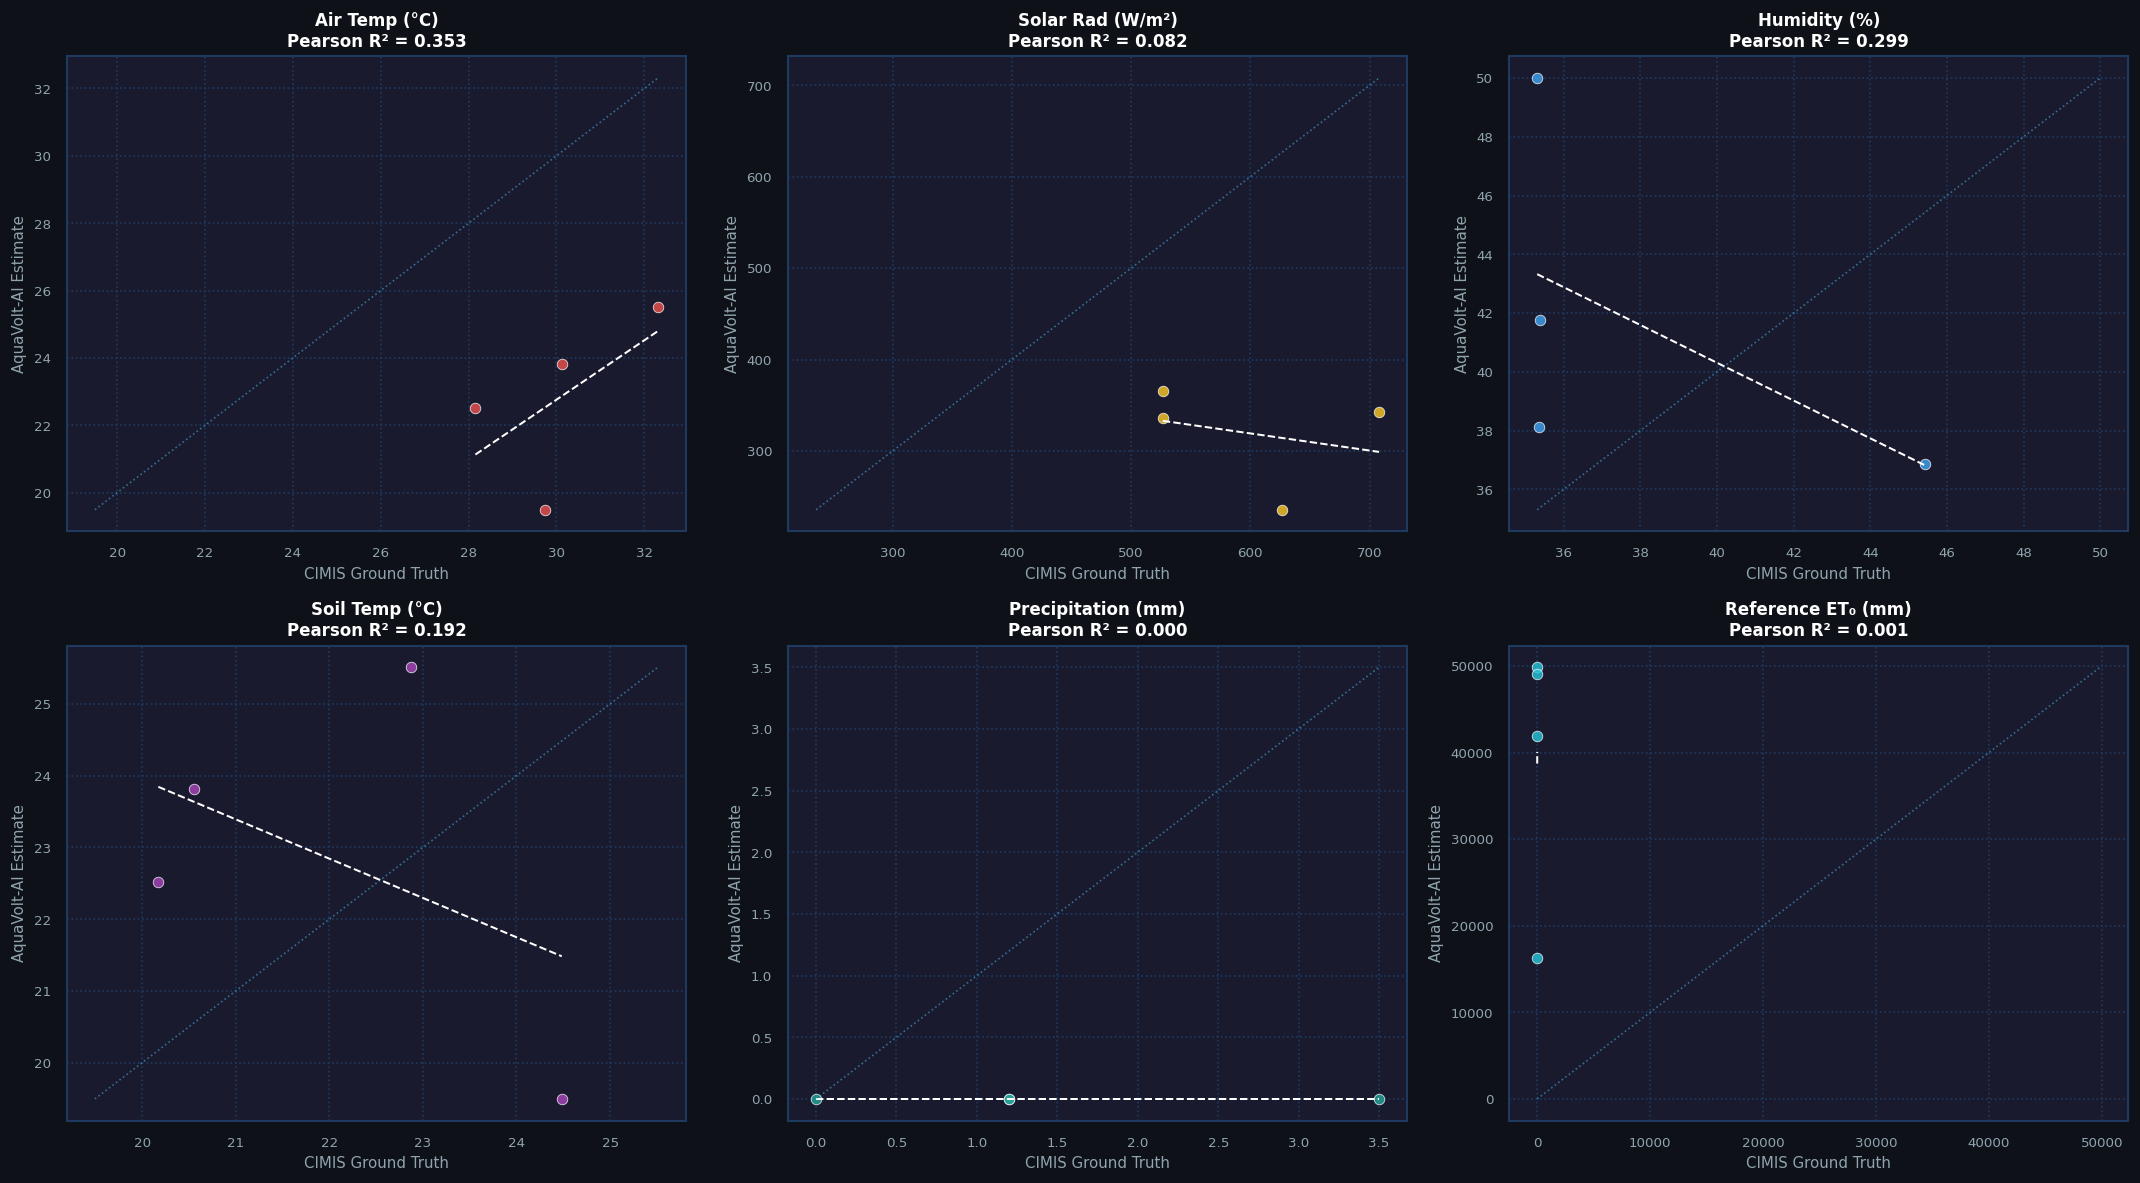
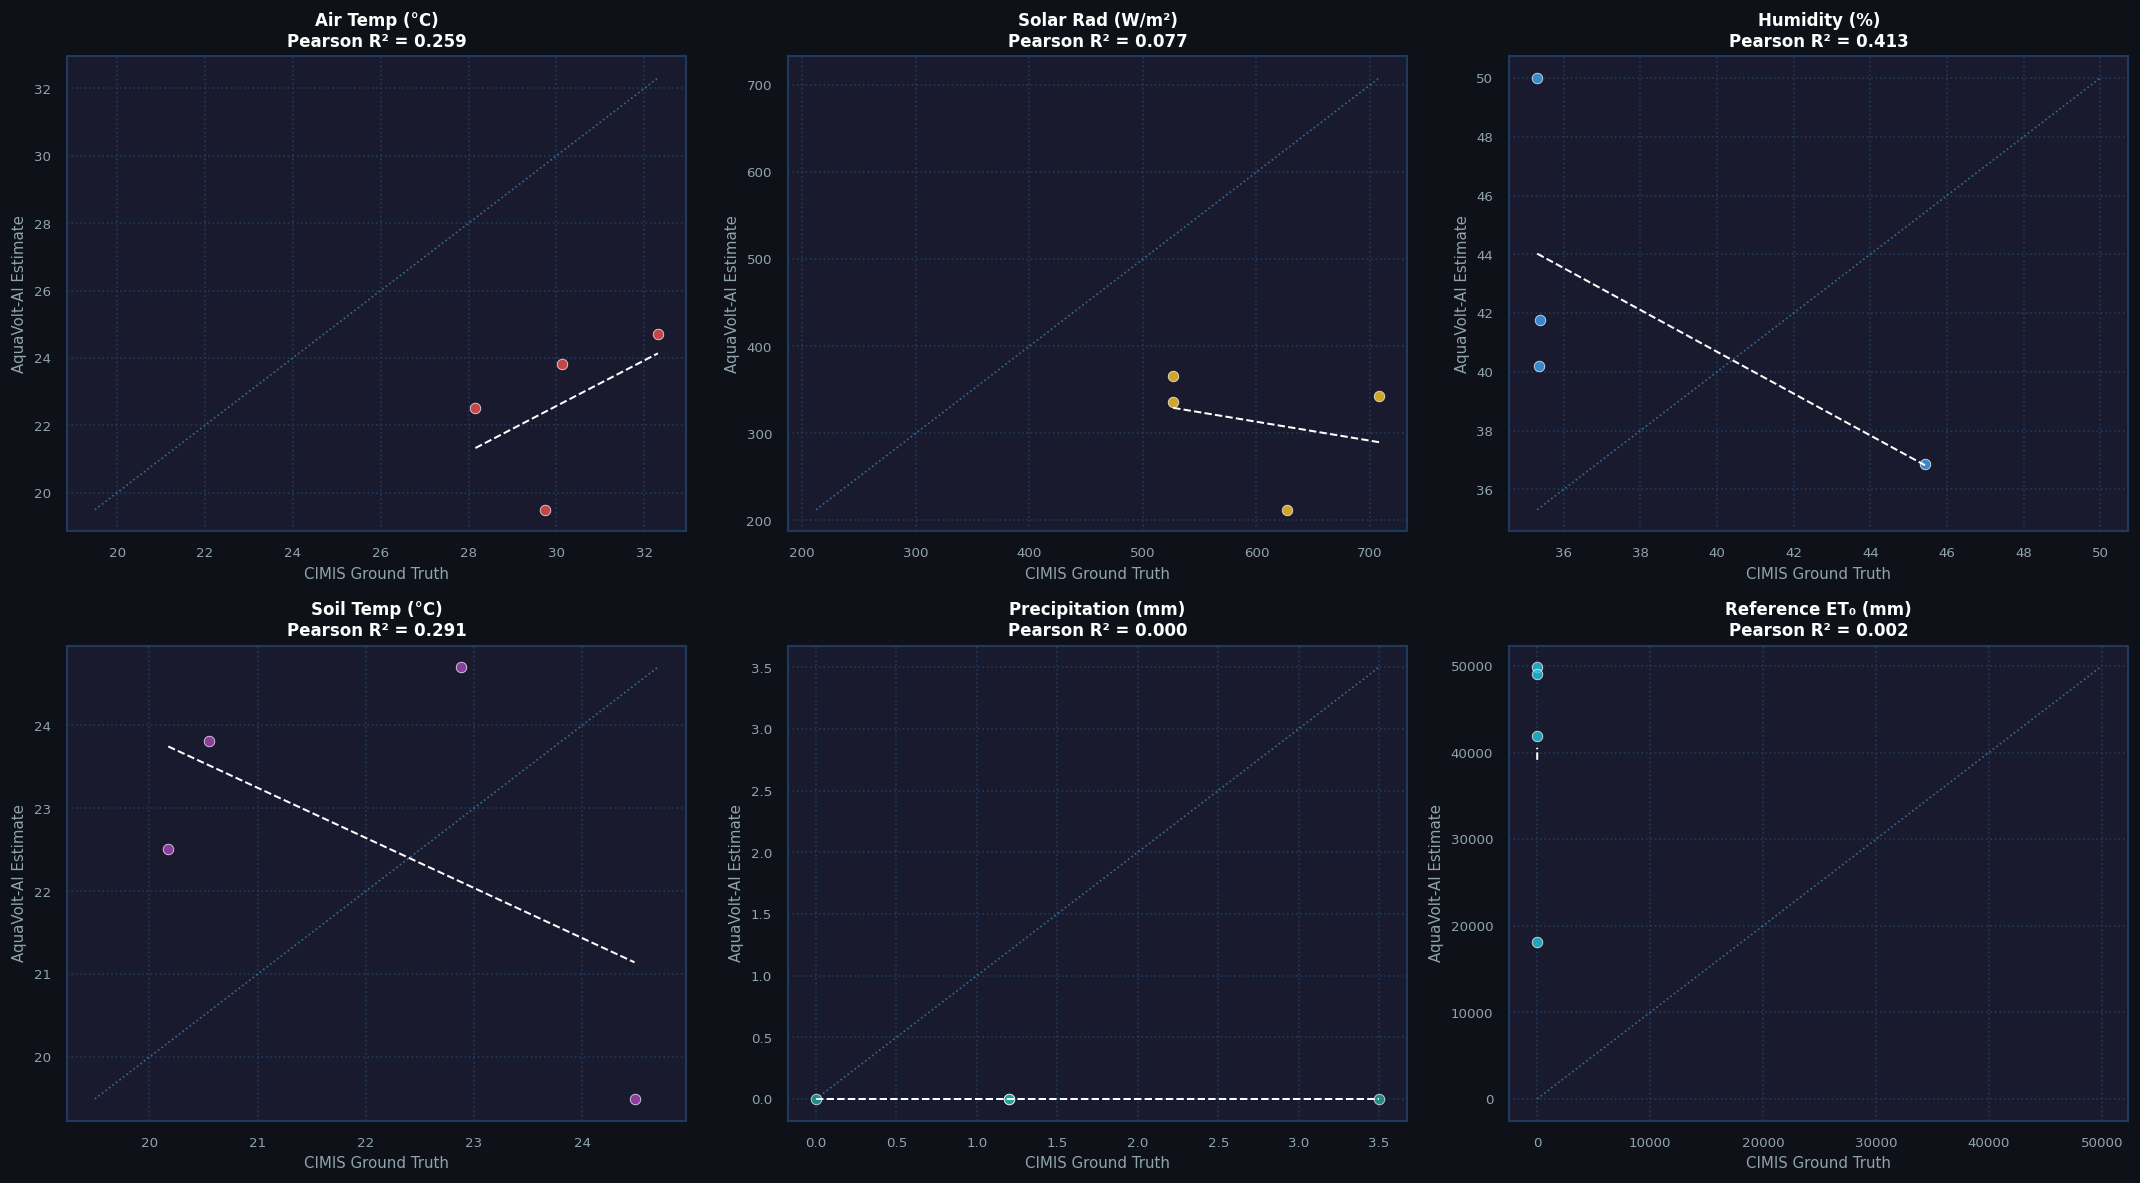
chore: Update live telemetry dashboard and plots [skip ci]

diff --git a/README.md b/README.md
@@ -25,25 +25,25 @@ Abdul Wali Khan University Mardan (AWKUM), KP, Pakistan
 <!-- LIVE_TELEMETRY_START -->
 # 📡 AquaVolt-AI Live Telemetry
 
-**Latest Update:** `2026-07-01 06:00:00 UTC`
+**Latest Update:** `2026-07-01 07:00:00 UTC`
 > This dashboard updates automatically every hour via GitHub Actions.
 
 ### ⛅ Current Weather (Russell Ranch)
 
-- **Air Temp:** 18.6°C
+- **Air Temp:** 17.4°C
 - **Humidity:** 59%
 - **Solar Radiation:** 0.0 W/m²
-- **Soil Moisture (Proxy):** 7.8%
-- **Reference ET₀ (24h):** 7.03 mm
+- **Soil Moisture (Proxy):** 7.9%
+- **Reference ET₀ (24h):** 7.09 mm
 
 ### 🌱 Field Averages (Current Hour)
 
 | Field Name | Avg NDVI | Avg NDWI | Avg ETc (mm/hr) | Avg Water Deficit (mm) |
 |---|---|---|---|---|
-| **Field-A (Corn)** | 0.197 | -0.261 | 1.08 | **51.02** |
-| **Field-B (Alfalfa)** | 0.194 | -0.274 | 1.14 | **51.76** |
-| **Field-C (Fallow)** | 0.256 | -0.313 | 0.39 | **54.05** |
-| **Field-D (Tomato)** | 0.140 | -0.214 | 1.04 | **47.78** |
+| **Field-A (Corn)** | 0.197 | -0.261 | 1.09 | **51.02** |
+| **Field-B (Alfalfa)** | 0.194 | -0.274 | 1.15 | **51.76** |
+| **Field-C (Fallow)** | 0.256 | -0.313 | 0.40 | **54.05** |
+| **Field-D (Tomato)** | 0.140 | -0.214 | 1.05 | **47.78** |
 
 ---
 *Powered by Python, Planetary Computer STAC APIs, and FAO-56 Thermodynamics.*
